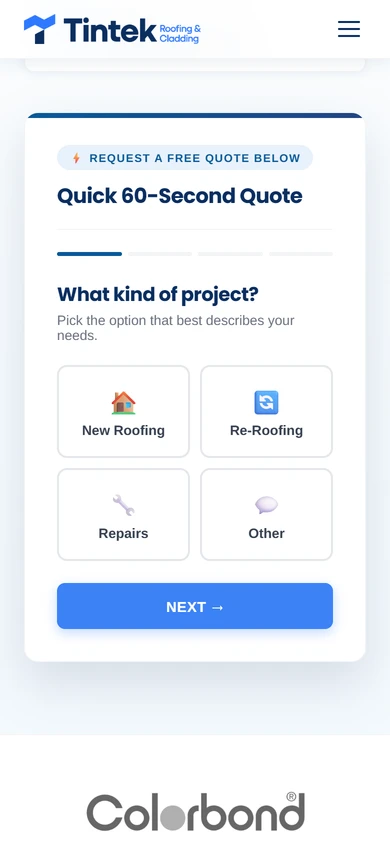
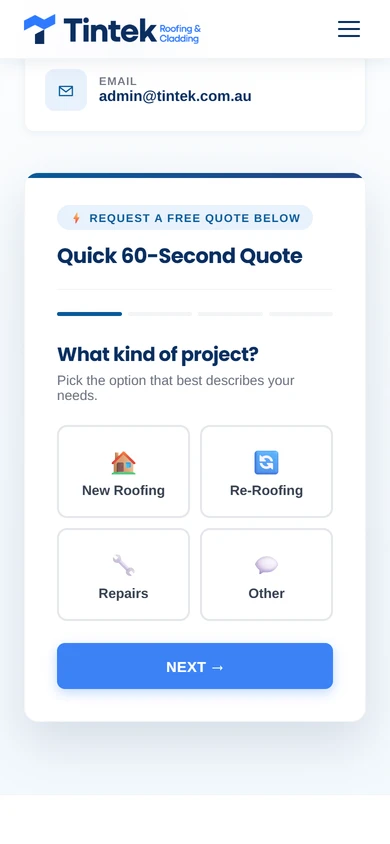
Center quote form screenshot

diff --git a/capture-tintek.js b/capture-tintek.js
@@ -88,7 +88,7 @@ function removeFloatingElements(pg) {
       var t = headings[i].textContent.toLowerCase();
       if (t.includes('60-second') || t.includes('60 second')) {
         var rect = headings[i].getBoundingClientRect();
-        window.scrollBy(0, rect.top - 200);
+        window.scrollBy(0, rect.top - 260);
         return 'found: ' + headings[i].textContent;
       }
     }